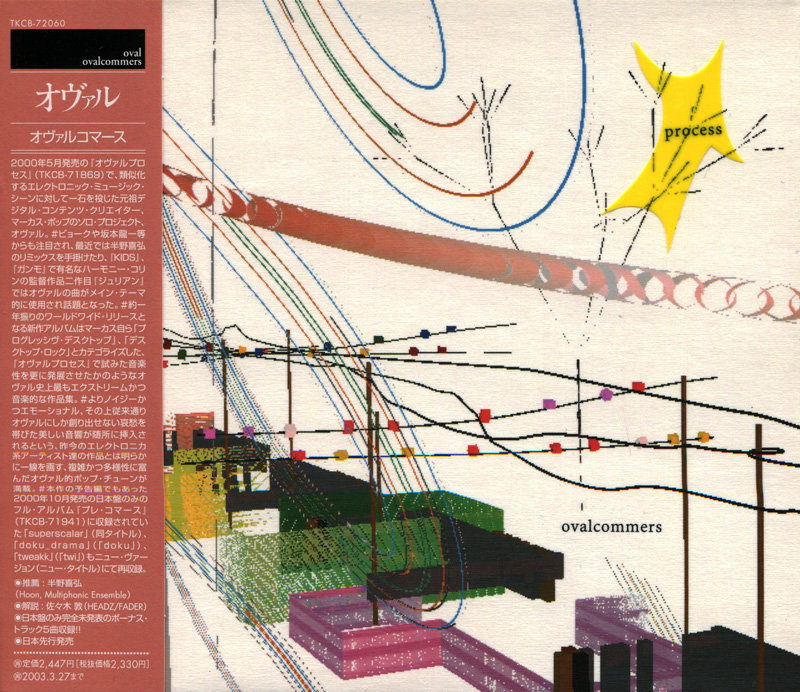
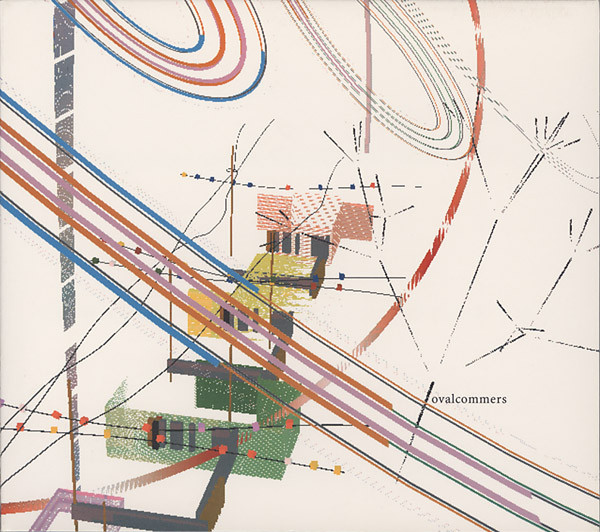
Library: Max Mathews, Wendy Carlos, Dreamer (Lo91); manual diagrams; image fixes
New entries: Max Mathews (Bell Labs electric-violin photo from Wikipedia),
Wendy Carlos + Beauty in the Beast (1986), Susumu Yokota's Dreamer (Lo91).

Adds diagrams sourced from their own hosted manuals to Klein + Hummel UE-100
(frequency response chart) and Krohn-Hite DCA-10 (amplifier schematic), and
a page from Turing's original 1936 paper to On Computable Numbers.

Fixes: Éliane Radigue's portrait was a duplicate of the Trilogie de la Mort
photo — replaced with a distinct one and corrected credit. Ovalcommers cover
swapped for the actual digipak artwork. Handmade Electronic Music cover
anchored to Bottom.

diff --git a/content/library/max-mathews/index.md b/content/library/max-mathews/index.md
@@ -1,0 +1,21 @@
+---
+title: "Max Mathews"
+summary: "American engineer at Bell Labs who wrote MUSIC, the first widely used computer program for generating sound."
+
+library:
+  id: max-mathews
+  type: person
+  sarc_work: false
+
+subjects: [sound, computation, technology]
+
+images:
+  - file: "max-mathews-violin.png"
+    alt: "Max Mathews playing an electric violin he built, in his analog electronics lab at Bell Labs, circa 1970"
+    role: portrait
+    credit: "Wikipedia"
+
+draft: false
+---
+
+Max Mathews (1926-2011) was an American engineer at Bell Labs whose MUSIC (1957) was the first widely used computer program for generating sound, and whose later GROOVE system (1970) pioneered real-time computer control of synthesizers — foundational work behind essentially all subsequent computer music.

diff --git a/content/library/dreamer-lo91/index.md b/content/library/dreamer-lo91/index.md
@@ -1,0 +1,35 @@
+---
+title: "Dreamer (Lo91)"
+summary: "Susumu Yokota's 2012 album on Lo Recordings."
+year: 2012
+
+library:
+  id: dreamer-lo91
+  type: release
+  sarc_work: false
+
+creators:
+  - name: "Susumu Yokota"
+    role: artist
+    ref: susumu-yokota
+
+subjects: [sound, perception]
+
+images:
+  - file: "cover.jpg"
+    alt: "Cover of Dreamer (Lo91) by Susumu Yokota"
+    role: cover
+    source: "https://susumuyokota.bandcamp.com/album/dreamer-lo91"
+    rights:
+      status: promotional
+      note: "Label cover art used for identification."
+
+access:
+  - label: "Bandcamp"
+    kind: bandcamp
+    url: "https://susumuyokota.bandcamp.com/album/dreamer-lo91"
+
+draft: false
+---
+
+Susumu Yokota's 2012 album, released on Lo Recordings.

diff --git a/content/library/beauty-in-the-beast/index.md b/content/library/beauty-in-the-beast/index.md
@@ -1,0 +1,26 @@
+---
+title: "Beauty in the Beast"
+summary: "Wendy Carlos's 1986 album exploring alternative tunings and scales built from scratch."
+year: 1986
+
+library:
+  id: beauty-in-the-beast
+  type: release
+  sarc_work: false
+
+creators:
+  - name: "Wendy Carlos"
+    role: artist
+    ref: wendy-carlos
+
+subjects: [sound, tuning]
+
+access:
+  - label: "Discogs"
+    kind: catalog-record
+    url: "https://www.discogs.com/master/19697-Wendy-Carlos-Beauty-In-The-Beast"
+
+draft: false
+---
+
+Wendy Carlos's 1986 album, her first release for a label other than Columbia since 1968, exploring original scales and just-intonation-derived tunings devised specifically for the record.

diff --git a/content/library/eliane-radigue/index.md b/content/library/eliane-radigue/index.md
@@ -11,10 +11,11 @@ subjects: [time, sound, perception]
 
 images:
   - file: "eliane-radigue.jpg"
-    alt: "Éliane Radigue"
+    alt: "A young Éliane Radigue seated beside her home studio, an ARP 2500 and reel-to-reel tape machines behind her"
     role: portrait
-    credit: "Photograph by Vincent Pontet"
-    source: "https://www.cutcommonmag.com/cat-hope-talks-gender-sound-art-and-the-work-of-eliane-radigue/1-eliane-radigue-image-vincent-pontet/"
+    rights:
+      status: unknown
+      note: "Photographer and original publication not yet established."
 
 access:
   - label: "Bandcamp"

diff --git a/content/library/on-computable-numbers/index.md b/content/library/on-computable-numbers/index.md
@@ -15,6 +15,15 @@ creators:
 
 subjects: [computation, number]
 
+images:
+  - file: "turing-abbreviated-tables.png"
+    alt: "A page of Turing's paper showing abbreviated machine tables for copying and replacing symbols on the tape"
+    role: document
+    credit: "Alan Turing, from the original 1936 paper"
+    rights:
+      status: unknown
+      note: "Excerpt from the original paper, used for identification; public-domain status not established across jurisdictions."
+
 access:
   - label: "PDF"
     kind: external-copy

diff --git a/content/library/wendy-carlos/index.md b/content/library/wendy-carlos/index.md
@@ -1,0 +1,15 @@
+---
+title: "Wendy Carlos"
+summary: "American composer and synthesist, pioneer of the Moog synthesizer in recorded music."
+
+library:
+  id: wendy-carlos
+  type: person
+  sarc_work: false
+
+subjects: [sound, technology, tuning]
+
+draft: false
+---
+
+Wendy Carlos is an American composer and synthesist whose Switched-On Bach (1968) brought the Moog synthesizer to a mass audience, and whose later work includes film scores (A Clockwork Orange, The Shining, Tron) and research into alternative tunings.

diff --git a/content/library/klein-hummel-ue100/index.md b/content/library/klein-hummel-ue100/index.md
@@ -16,6 +16,15 @@ subjects:
   - sound
   - instruments
 
+images:
+  - file: "ue100-frequency-response.png"
+    alt: "Frequency response chart for the Klein + Hummel UE-100, showing overlapping filter curves across the audio band"
+    role: diagram
+    credit: "Klein + Hummel, from the UE-100 manual"
+    rights:
+      status: archival
+      note: "Same archival basis as the hosted manual itself — see rights above."
+
 # Manual-specific metadata
 manufacturer: "Klein + Hummel"
 models:

diff --git a/content/library/krohn-hite-dca-10/index.md b/content/library/krohn-hite-dca-10/index.md
@@ -16,6 +16,15 @@ subjects:
   - sound
   - instruments
 
+images:
+  - file: "dca-10-schematic.png"
+    alt: "Schematic for the Krohn-Hite DCA-10 wide-band 10-watt amplifier"
+    role: diagram
+    credit: "Krohn-Hite, from the DCA-10 service manual"
+    rights:
+      status: archival
+      note: "Same archival basis as the hosted manual itself — see rights above."
+
 # Manual-specific metadata
 manufacturer: "Krohn-Hite"
 models:

diff --git a/content/library/handmade-electronic-music/index.md b/content/library/handmade-electronic-music/index.md
@@ -18,6 +18,7 @@ images:
   - file: "cover.jpg"
     alt: "Cover of Handmade Electronic Music: The Art of Hardware Hacking"
     role: cover
+    anchor: Bottom
 
 access:
   - label: "Author's page"
